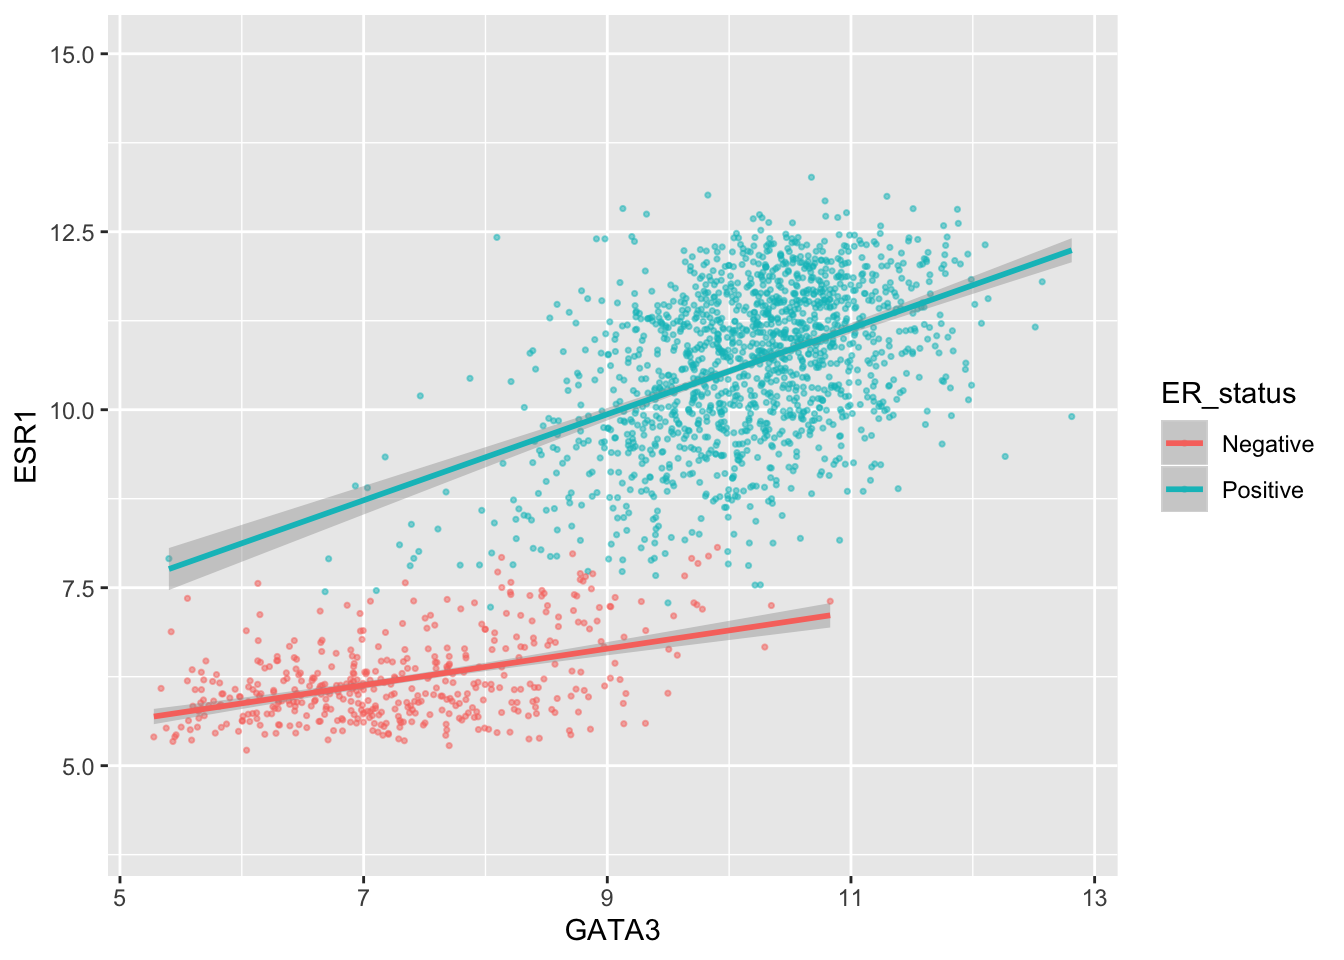
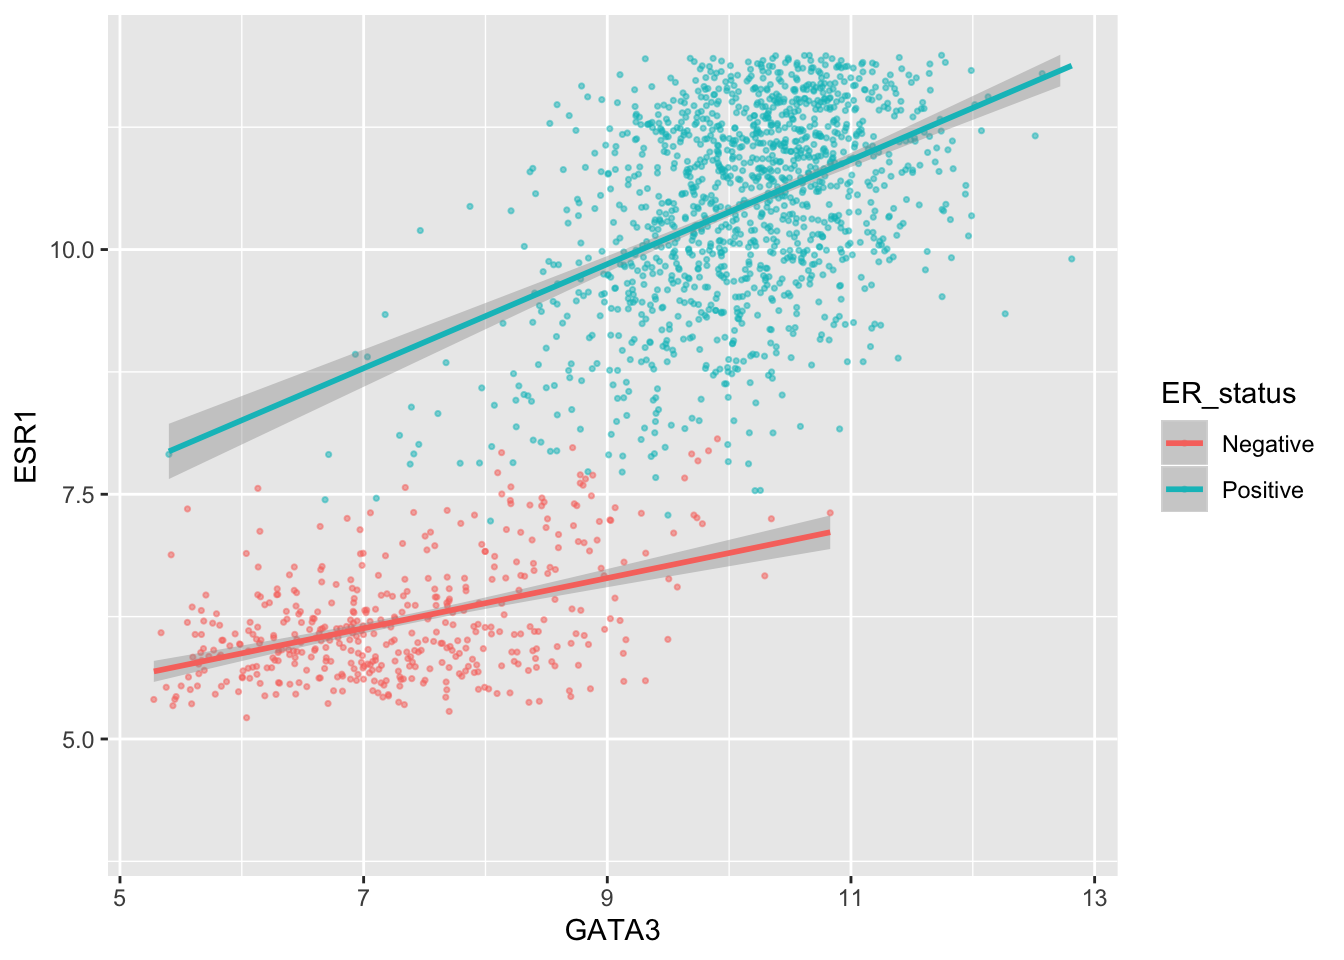
Added Ash's schematic demonstrating summarization with group_by, added Mick Avory to band members/instruments example of joining on two columns, changed limits example to show removing of points outside the limits.

diff --git a/docs/week5.html b/docs/week5.html
@@ -484,7 +484,12 @@ metabric</code></pre>
 ##  9 7                   10.9 
 ## 10 8                   11.1 
 ## 11 9                    9.96</code></pre>
-<p>As before we can summarize multiple observations, e.g. the mean expression for other genes of interest, this time using the PAM50 classification to define the groups.</p>
+<p>The following schematic contains another example using a simplified subset of the METABRIC tumour samples to show what’s going on.</p>
+<div class="figure">
+<img src="images/group_and_summarise.png" />
+
+</div>
+<p>As we saw last week, we can summarize multiple observations, e.g. the mean expression for other genes of interest, with <code>summarise_at()</code>, this time using the PAM50 classification to define the groups.</p>
 <pre class="r"><code>metabric %&gt;%
   group_by(PAM50) %&gt;%
   summarise_at(vars(ESR1, PGR, ERBB2), mean)</code></pre>
@@ -902,24 +907,25 @@ band_members3</code></pre>
 <h2>Joining by matching on multiple columns</h2>
 <p>Sometimes the observations being combined are identified by multiple columns, for example, a forename and a surname. We can specify a vector of column names to be used in the join operation.</p>
 <pre class="r"><code>band_members4 &lt;- tibble(
-  forename = c(&quot;Mick&quot;,   &quot;John&quot;,    &quot;Paul&quot;,      &quot;John&quot;),
-  surname =  c(&quot;Jagger&quot;, &quot;Lennon&quot;,  &quot;McCartney&quot;, &quot;Squire&quot;),
-  band =     c(&quot;Stones&quot;, &quot;Beatles&quot;, &quot;Beatles&quot;,   &quot;Roses&quot;)
+  forename = c(&quot;Mick&quot;,   &quot;John&quot;,    &quot;Paul&quot;,      &quot;Mick&quot;,  &quot;John&quot;),
+  surname =  c(&quot;Jagger&quot;, &quot;Lennon&quot;,  &quot;McCartney&quot;, &quot;Avory&quot;, &quot;Squire&quot;),
+  band =     c(&quot;Stones&quot;, &quot;Beatles&quot;, &quot;Beatles&quot;,   &quot;Kinks&quot;, &quot;Roses&quot;)
 )
 band_instruments4 &lt;- tibble(
-  forename = c(&quot;John&quot;,   &quot;Paul&quot;,      &quot;Keith&quot;,    &quot;John&quot;),
-  surname =  c(&quot;Lennon&quot;, &quot;McCartney&quot;, &quot;Richards&quot;, &quot;Squire&quot;),
-  plays =    c(&quot;guitar&quot;, &quot;bass&quot;,      &quot;guitar&quot;,   &quot;guitar&quot;)
+  forename = c(&quot;John&quot;,   &quot;Paul&quot;,      &quot;Keith&quot;,    &quot;Mick&quot;,  &quot;John&quot;),
+  surname =  c(&quot;Lennon&quot;, &quot;McCartney&quot;, &quot;Richards&quot;, &quot;Avory&quot;, &quot;Squire&quot;),
+  plays =    c(&quot;guitar&quot;, &quot;bass&quot;,      &quot;guitar&quot;,   &quot;drums&quot;, &quot;guitar&quot;)
 )
 full_join(band_members4, band_instruments4, by = c(&quot;forename&quot;, &quot;surname&quot;))</code></pre>
-<pre><code>## # A tibble: 5 x 4
+<pre><code>## # A tibble: 6 x 4
 ##   forename surname   band    plays 
 ##   &lt;chr&gt;    &lt;chr&gt;     &lt;chr&gt;   &lt;chr&gt; 
 ## 1 Mick     Jagger    Stones  &lt;NA&gt;  
 ## 2 John     Lennon    Beatles guitar
 ## 3 Paul     McCartney Beatles bass  
-## 4 John     Squire    Roses   guitar
-## 5 Keith    Richards  &lt;NA&gt;    guitar</code></pre>
+## 4 Mick     Avory     Kinks   drums 
+## 5 John     Squire    Roses   guitar
+## 6 Keith    Richards  &lt;NA&gt;    guitar</code></pre>
 </div>
 <div id="clashing-column-names" class="section level2">
 <h2>Clashing column names</h2>
@@ -1085,8 +1091,11 @@ plot</code></pre>
 <pre class="r"><code>ggplot(data = metabric, mapping = aes(x = GATA3, y = ESR1, colour = ER_status)) +
   geom_point(size = 0.6, alpha = 0.5) +
   geom_smooth(method = &quot;lm&quot;) +
-  scale_y_continuous(breaks = seq(5, 15, by = 2.5), limits = c(4, 15))</code></pre>
+  scale_y_continuous(breaks = seq(5, 15, by = 2.5), limits = c(4, 12))</code></pre>
+<pre><code>## Warning: Removed 160 rows containing non-finite values (stat_smooth).</code></pre>
+<pre><code>## Warning: Removed 160 rows containing missing values (geom_point).</code></pre>
 <p><img src="week5_files/figure-html/scatter_plot_3-1.png" width="672" /></p>
+<p>Here, just for demonstration purposes, we set the upper limit to be less than the largest values of ESR1 expression and ggplot2 warned us that some rows have been removed from the plot.</p>
 <p>We can change the minor breaks, e.g. to add more lines that act as guides. These are shown as thin white lines when using the default theme (we’ll take a look at alternative themes next week).</p>
 <pre class="r"><code>ggplot(data = metabric, mapping = aes(x = GATA3, y = ESR1, colour = ER_status)) +
   geom_point(size = 0.6, alpha = 0.5) +
